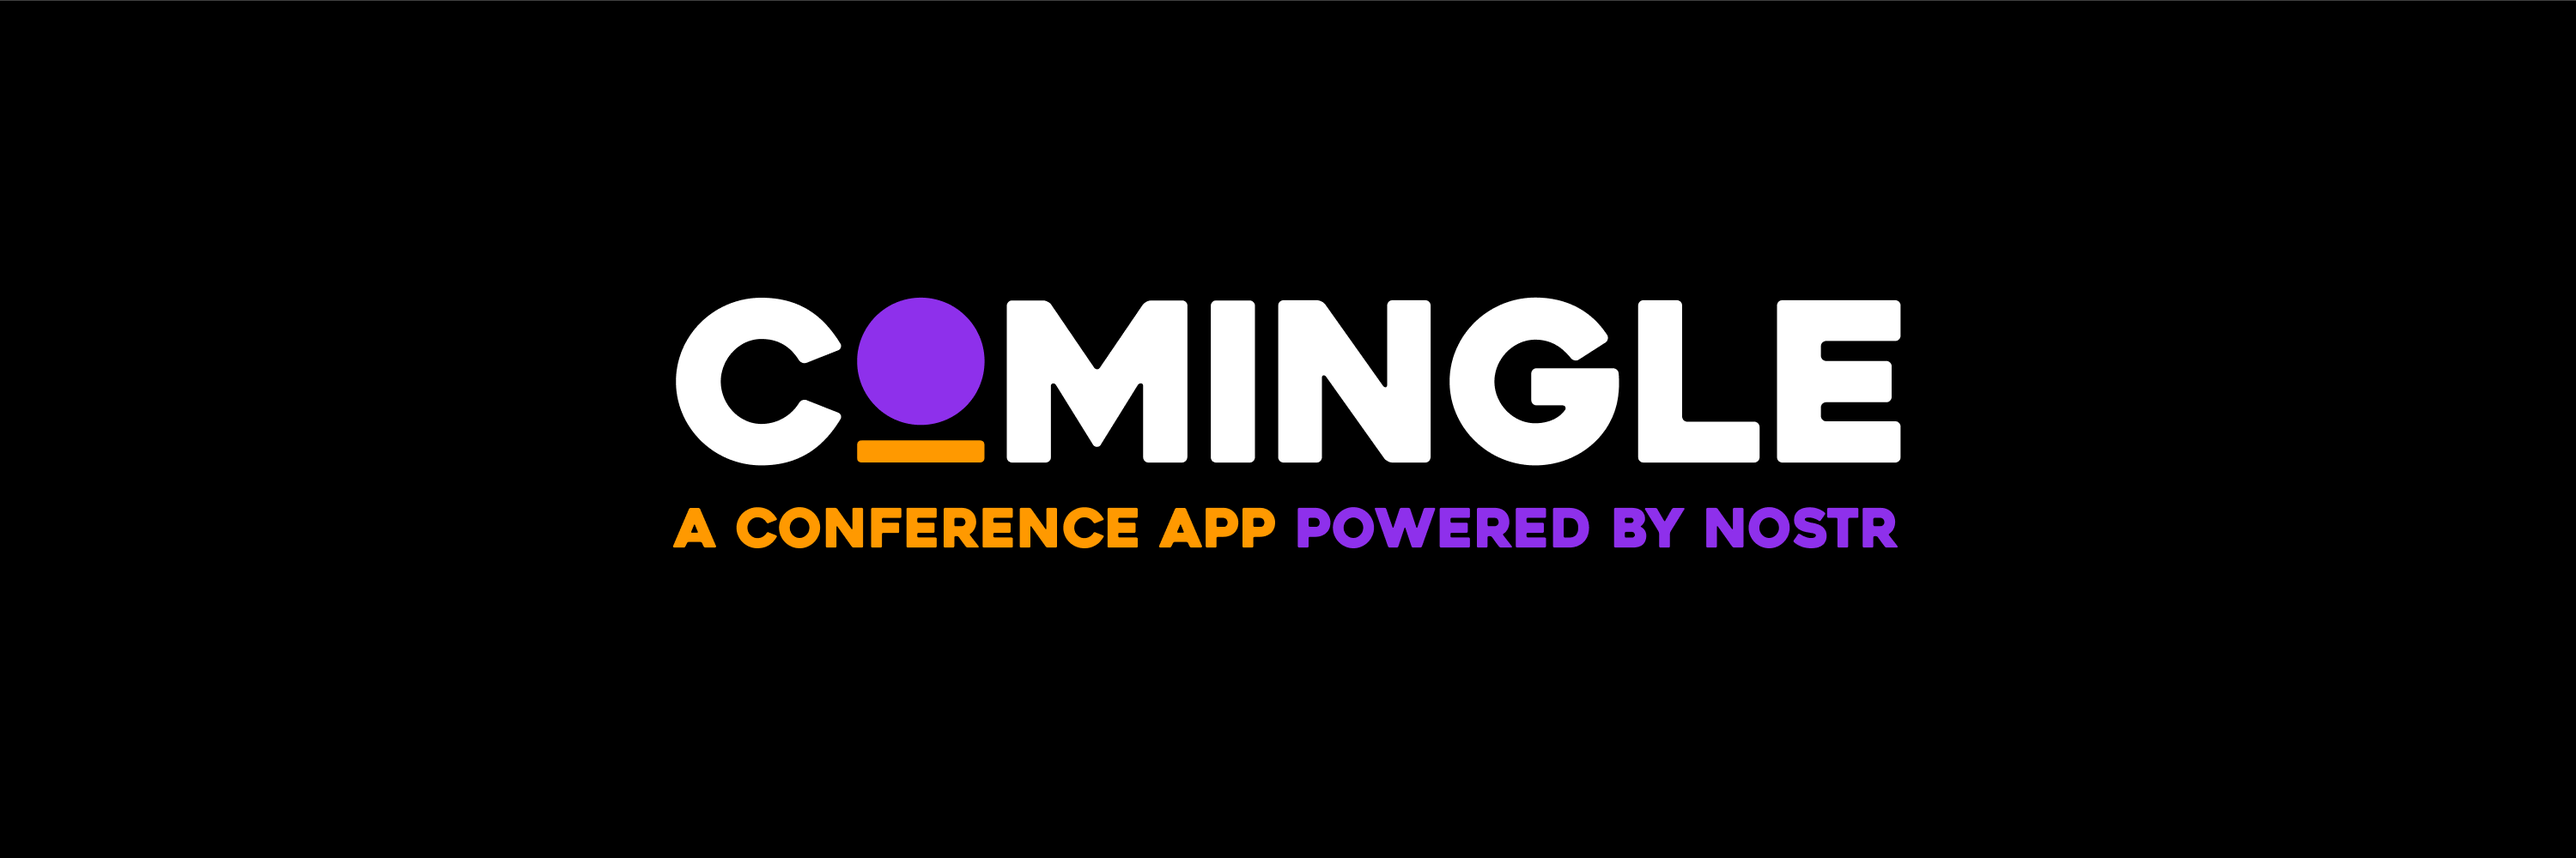
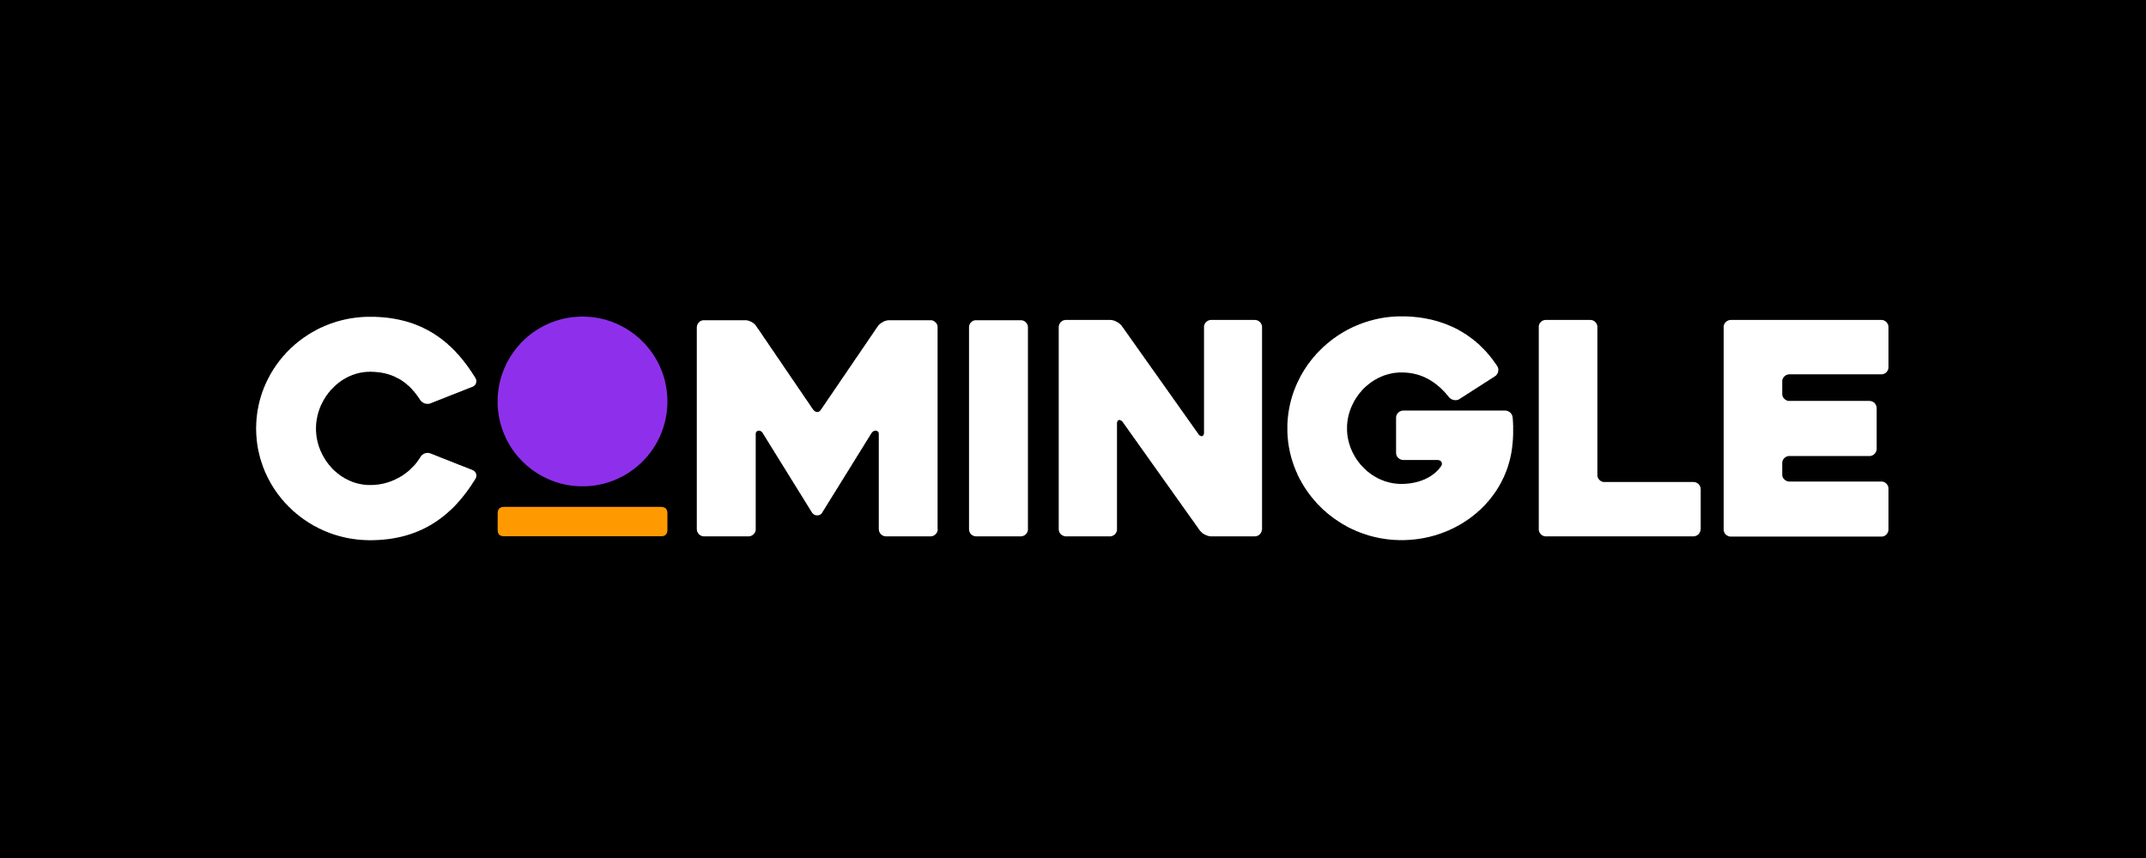
Update to say Comingle is an events app, not just a conference app

Changed region(s): [[0.0936, 0.341, 0.9048, 0.651]]

diff --git a/index.html b/index.html
@@ -1,6 +1,6 @@
 <html>
   <head>
-    <title>Comingle - a conference app powered by Nostr</title>
+    <title>Comingle - events app powered by Nostr</title>
 
     <link rel="apple-touch-icon" sizes="180x180" href="apple-touch-icon.png">
     <link rel="icon" type="image/png" sizes="32x32" href="favicon-32x32.png">
@@ -11,7 +11,7 @@
   <body>
     <img src="banner.png" alt="Comingle banner" width="500">
     <br><br>
-    Comingle - conference app powered by Nostr. Coming soon!
+    Comingle - events app powered by Nostr. Coming soon!
     <br><br>
     Follow us on <a href="https://primal.net/p/npub1c0nfstrlj0jy8kvl953v84hudwnpgad0zx709z0ey7nmjp0llegslzg243" target="_blank">Nostr</a> and <a href="https://github.com/comingle-co" target="_blank">GitHub</a>
   </body>
